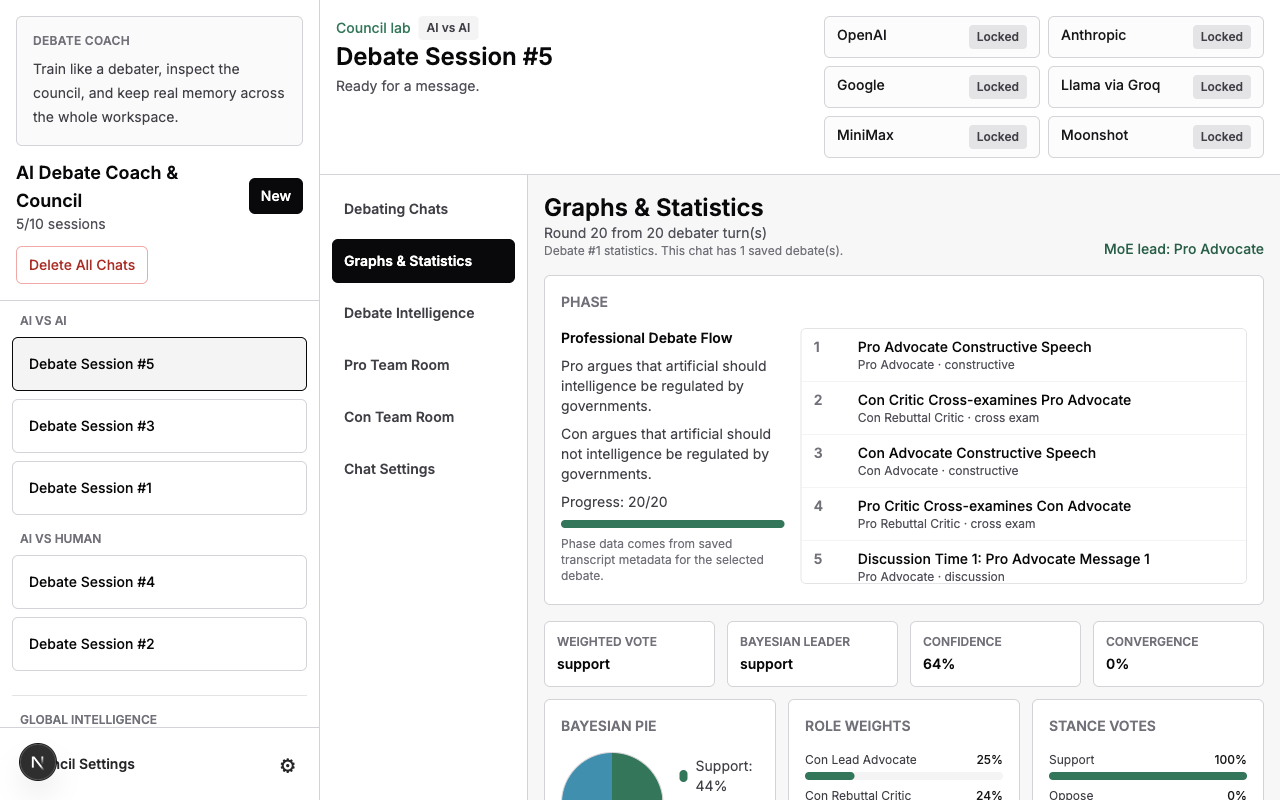
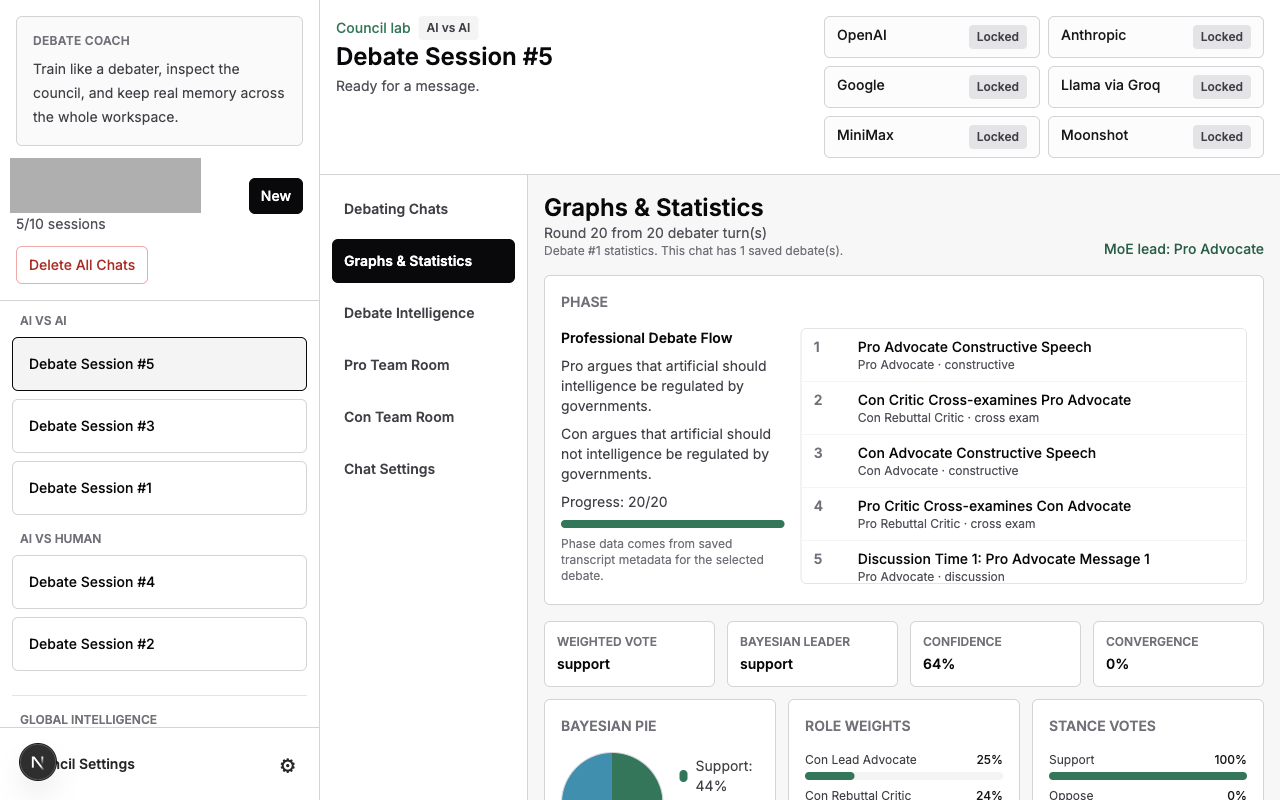
docs: redact screenshots and add architecture/flow diagrams
- Gray-bar redaction over app name in sidebar and mock-model references
- New system architecture diagram (3-layer: client, server, AI providers)
- New debate flow diagram (setup → rounds → judgment → post-debate)

Changed region(s): [[0.0, 0.1875, 0.1562, 0.2812]]

diff --git a/README.md b/README.md
@@ -50,6 +50,20 @@ Full dark mode support across all panels and pages.
 
 ![Dark Mode](docs/images/dark-mode.png)
 
+## Diagrams
+
+### System Architecture
+
+![System Architecture](docs/images/architecture.png)
+
+*Three-layer architecture: Next.js client communicates over HTTP and WebSockets with a FastAPI server backed by SQLite, while a LiteLLM router dispatches LLM calls to five AI providers.*
+
+### Debate Flow
+
+![Debate Flow](docs/images/debate-flow.png)
+
+*End-to-end flow from topic entry through setup, multi-round debate with four specialist roles per team, real-time WebSocket streaming, analytics-weighted judgment, and post-debate intelligence.*
+
 ## Table of Contents
 
 - [Features](#features)
